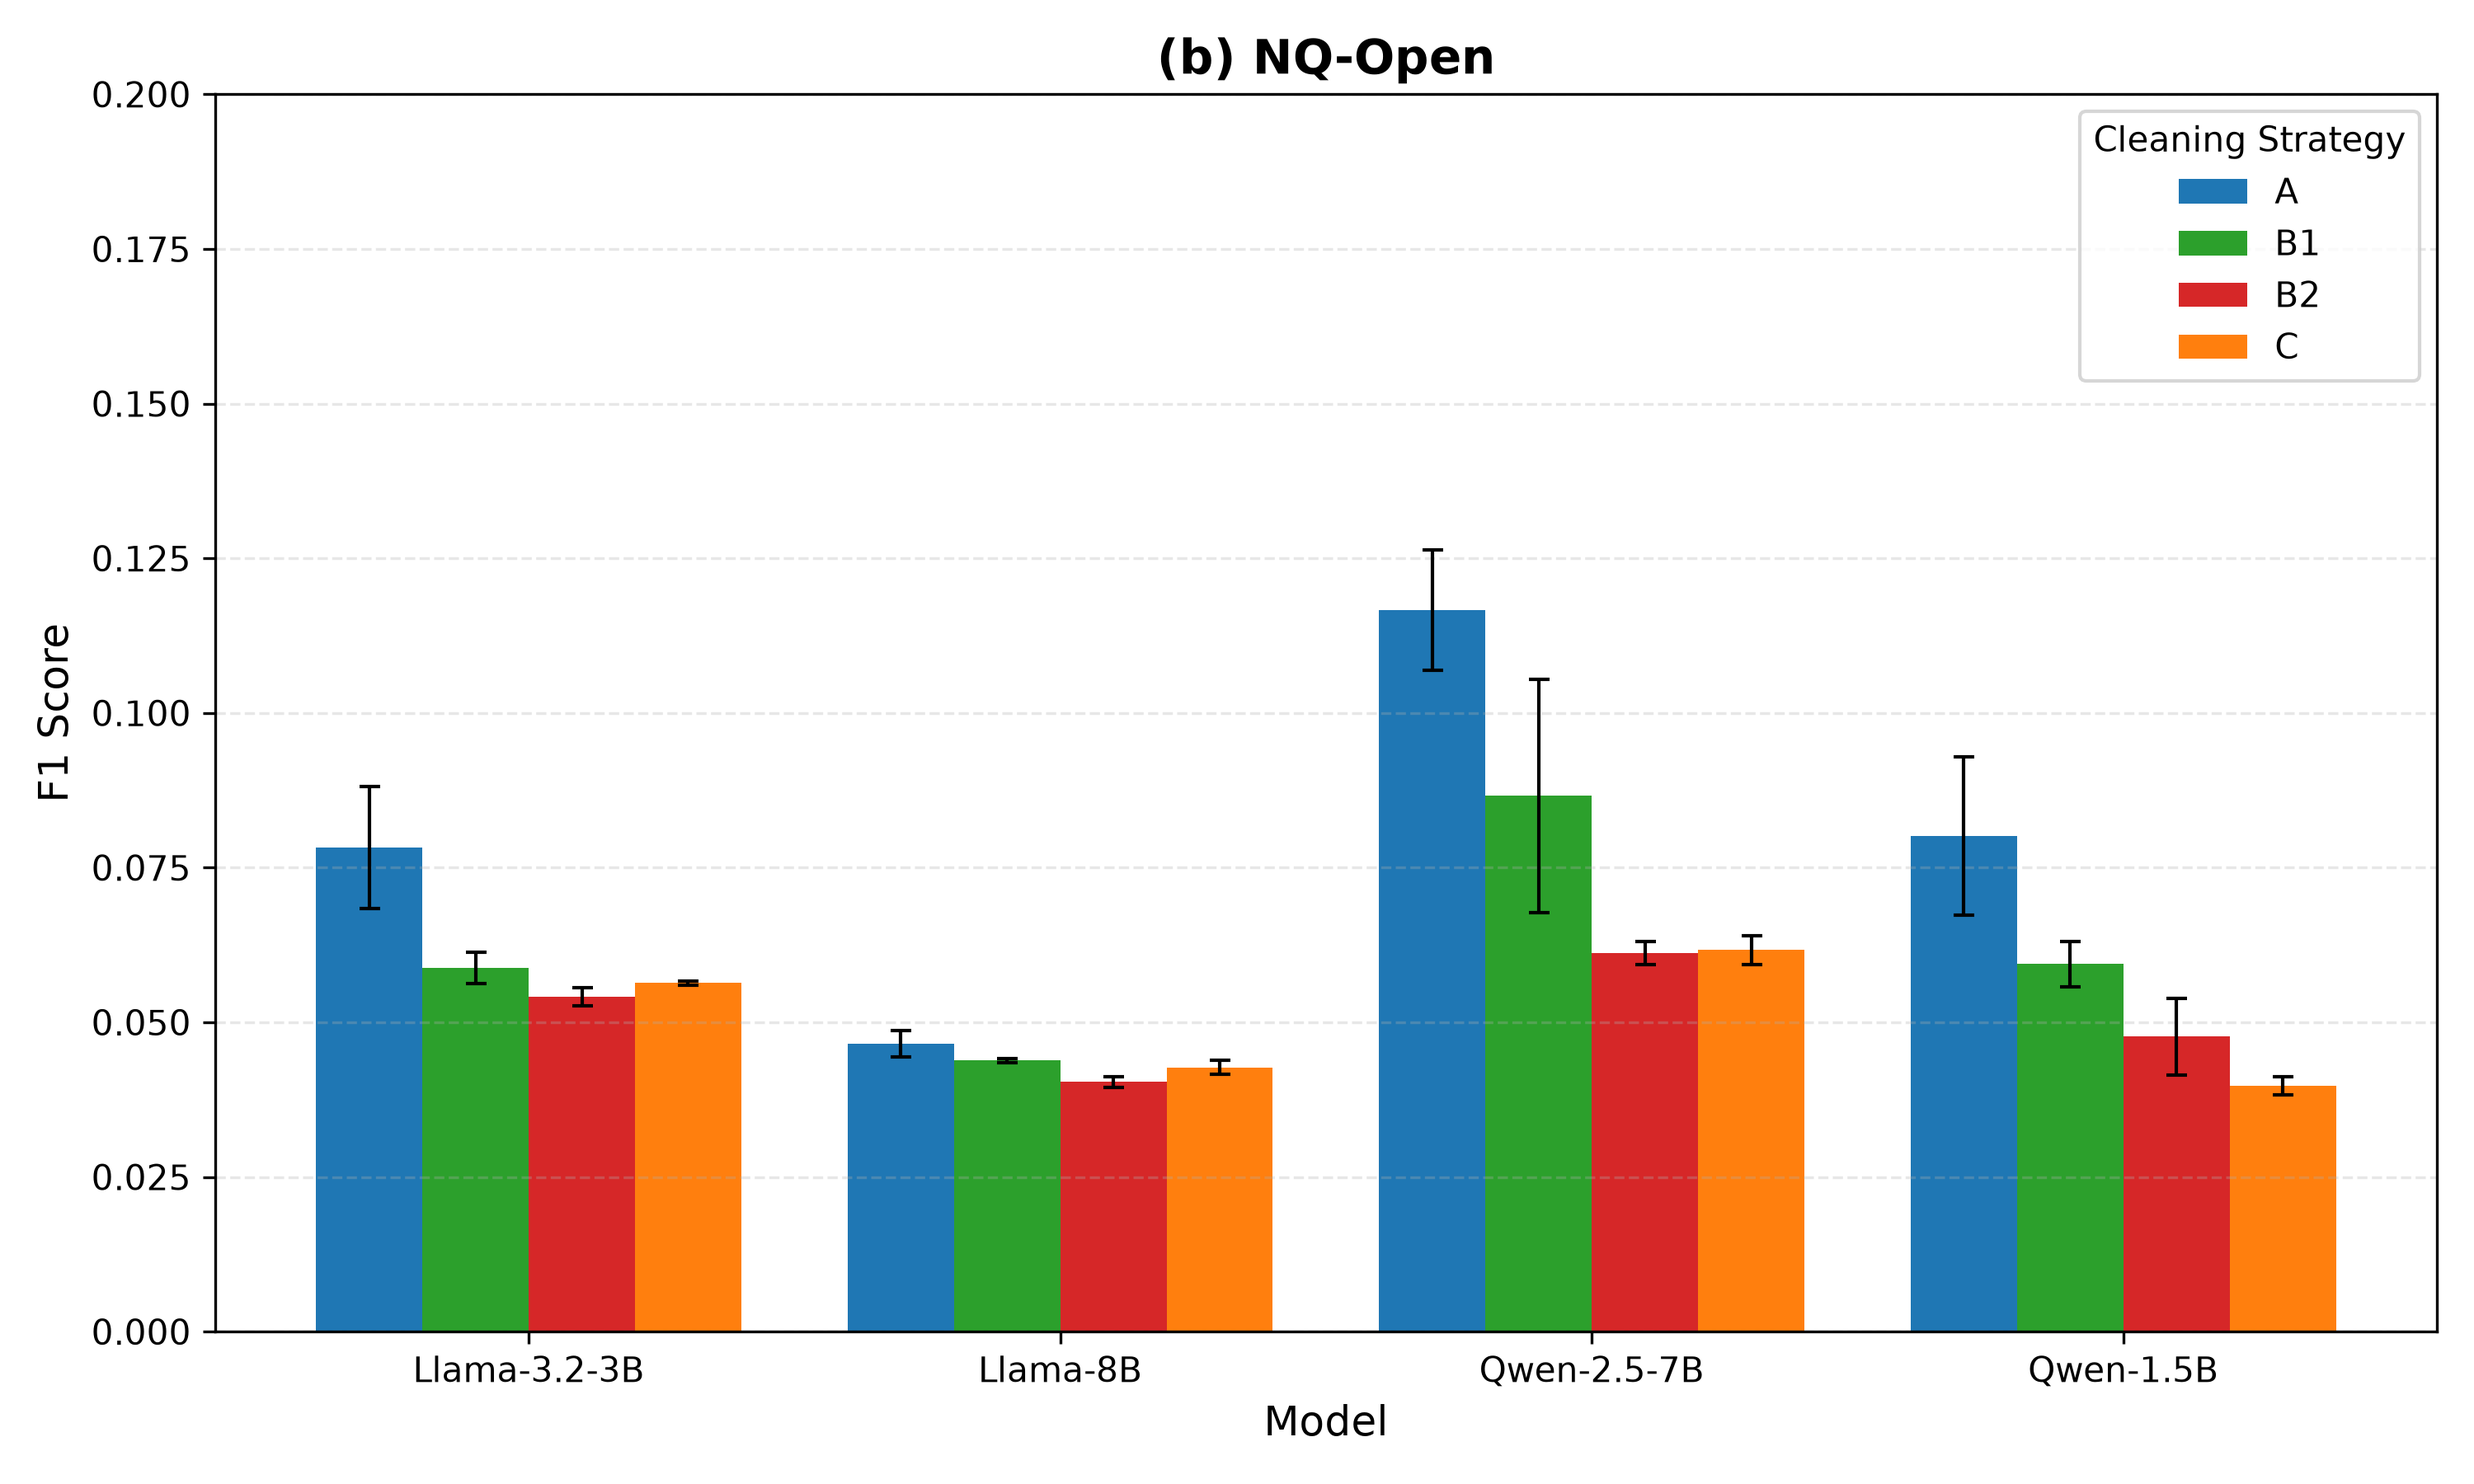
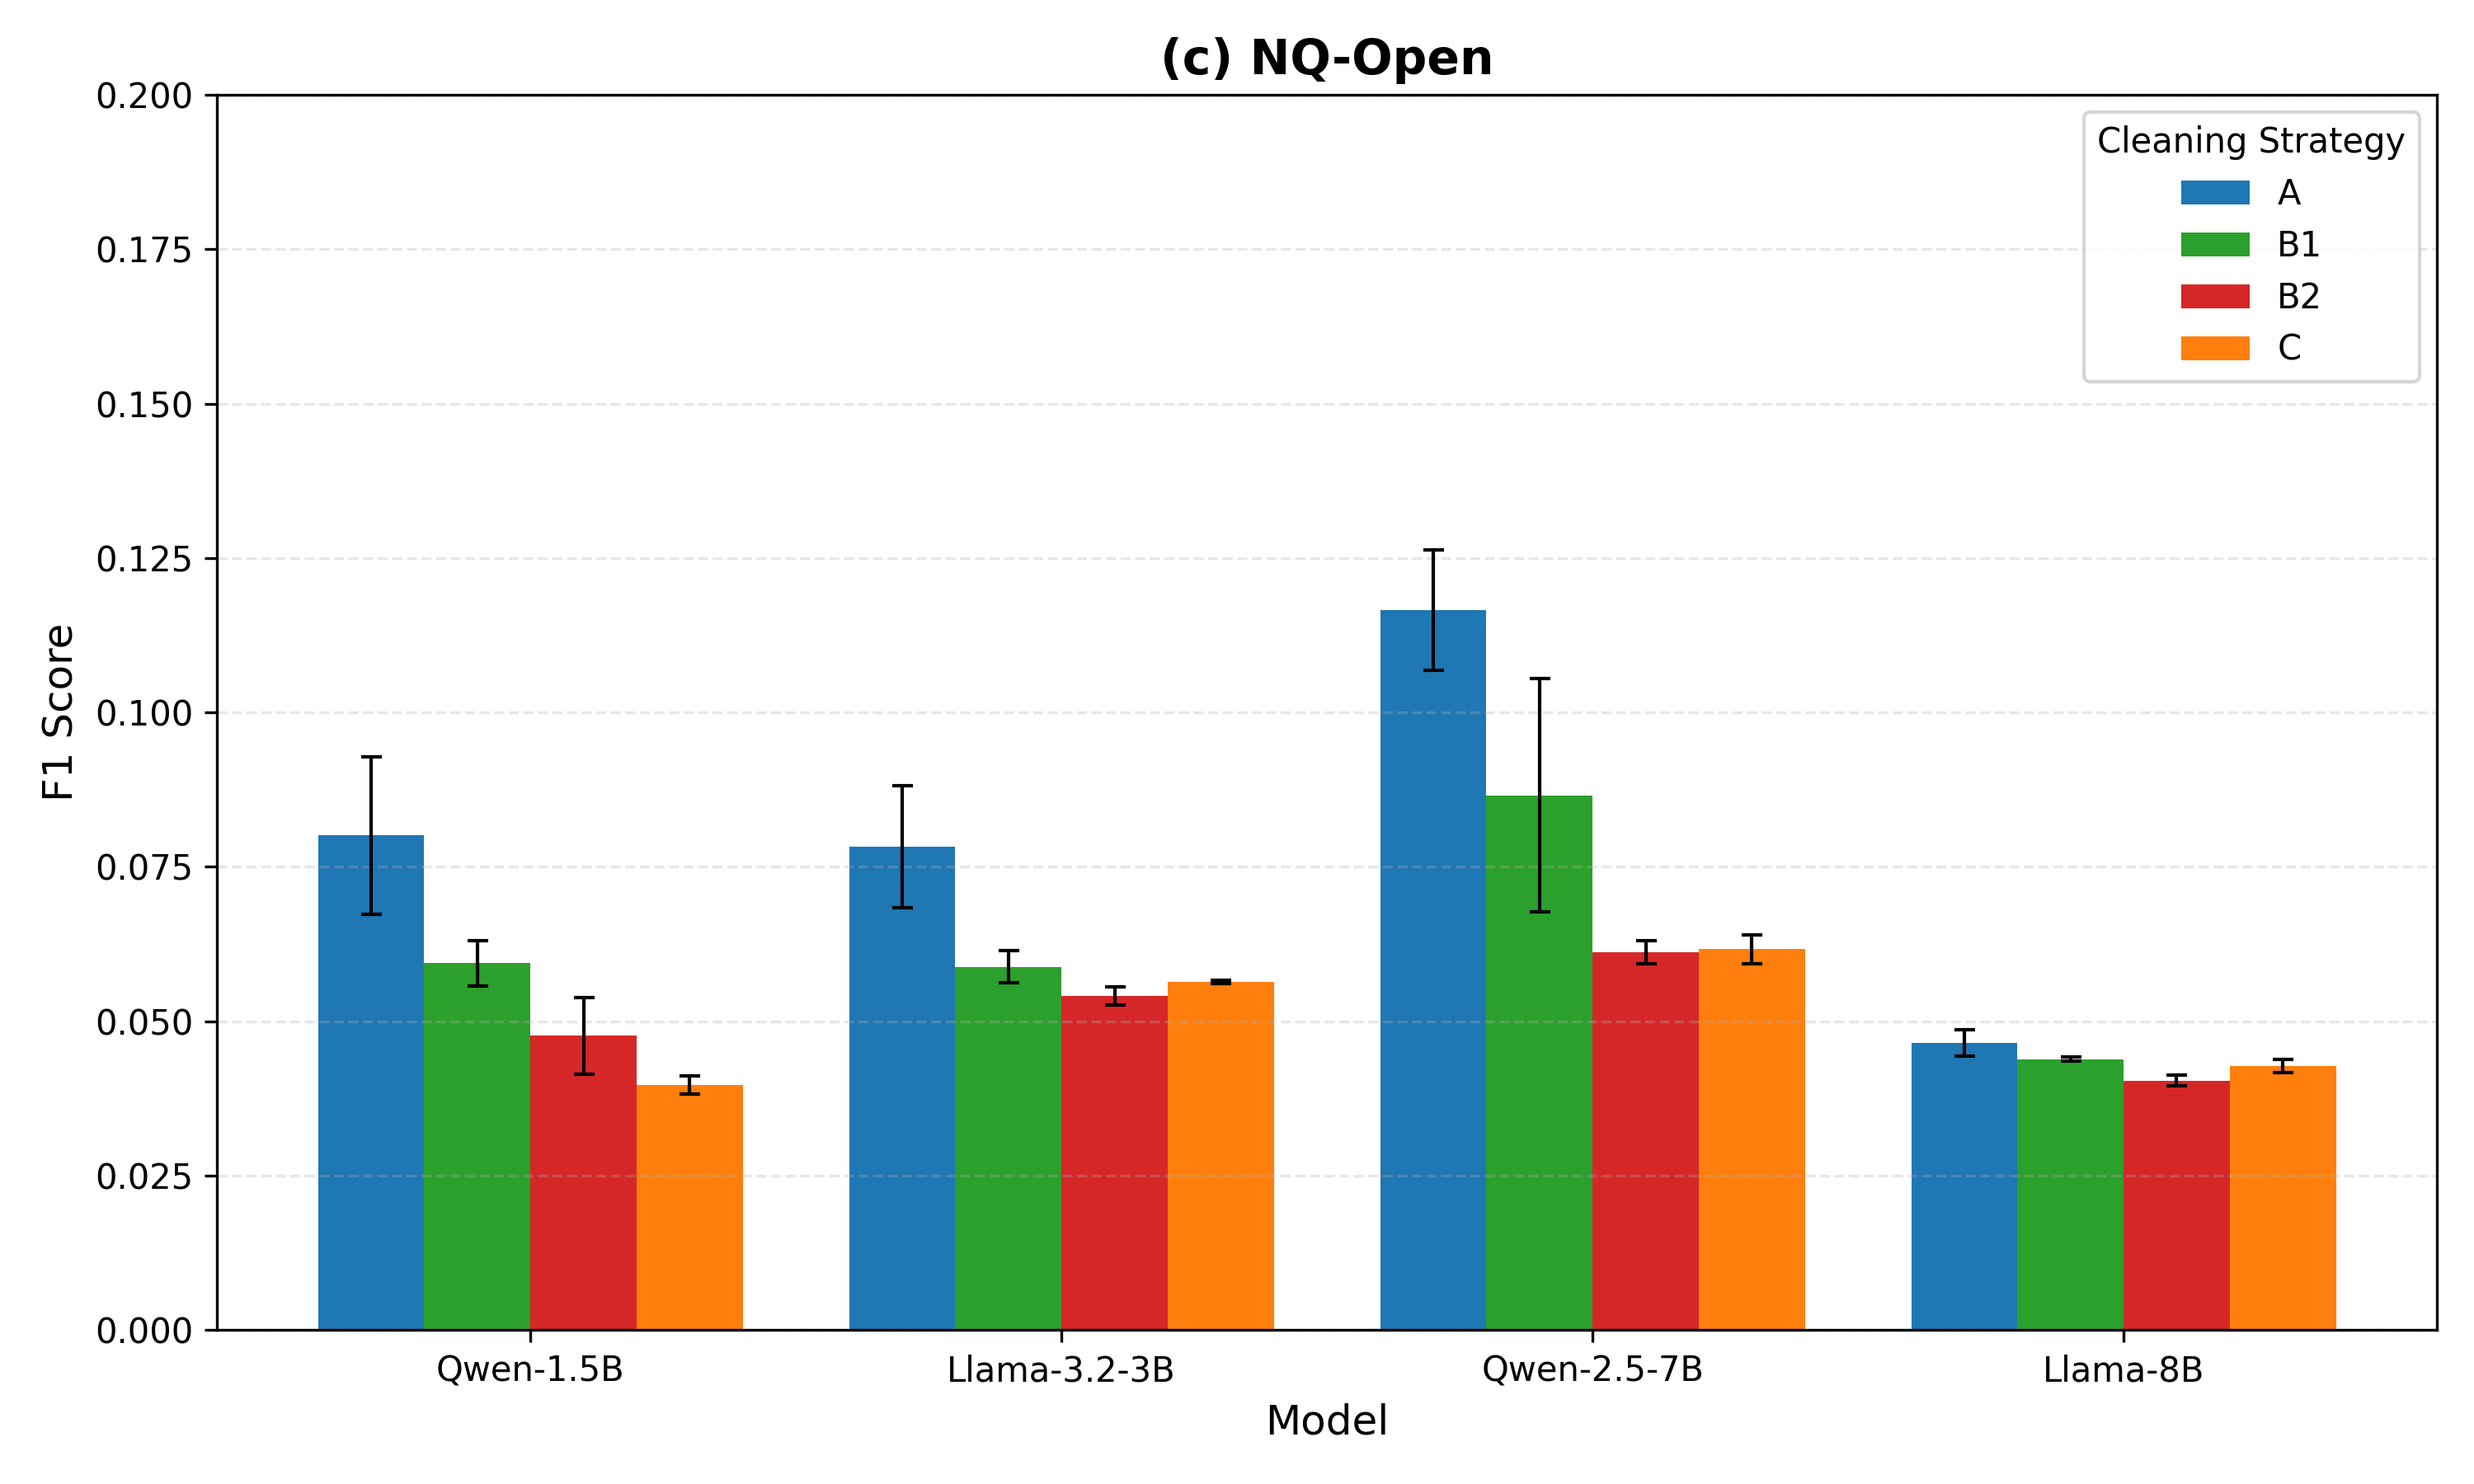
update

diff --git a/src/figures/figure1c_nq.py b/src/figures/figure1c_nq.py
@@ -1,6 +1,7 @@
 """
-Generate Figure 1b: NQ-Open F1 comparison across four cleaning strategies.
+Generate Figure 1c: NQ-Open F1 comparison across four cleaning strategies.
 Reads data from table2_nq_stats.csv.
+Models are ordered from smallest to largest.
 """
 
 import matplotlib.pyplot as plt
@@ -16,18 +17,21 @@ from config.paths import FIGURES_DIR, TABLES_DIR
 # ------------------------------------------------------------------
 # 1. Load data
 # ------------------------------------------------------------------
-df = pd.read_csv(TABLES_DIR / "table2_nq_stats.csv")
+df = pd.read_csv(TABLES_DIR / "table2b_full_statistics_NQ.csv")
 
-# Model order: consistent with Figure 1a
-model_order = ["llama-3.2-3b", "llama-8b", "qwen-2.5-7b", "qwen-1.5b"]
+# Model order: smallest to largest
+model_order = ["qwen-1.5b", "llama-3.2-3b", "qwen-2.5-7b", "llama-8b"]
 df["model"] = pd.Categorical(df["model"], categories=model_order, ordered=True)
 df = df.sort_values(["model", "group"]).reset_index(drop=True)
+
+# Display names for x-axis
+display_names = ["Qwen-1.5B", "Llama-3.2-3B", "Qwen-2.5-7B", "Llama-8B"]
 
 # Strategy order and colors
 groups = ["A", "B1", "B2", "C"]
 colors = {"A": "#1f77b4", "B1": "#2ca02c", "B2": "#d62728", "C": "#ff7f0e"}
 
-x = np.arange(len(model_order))
+x = np.arange(len(display_names))
 width = 0.2
 
 # ------------------------------------------------------------------
@@ -63,14 +67,14 @@ for i, group in enumerate(groups):
 # ------------------------------------------------------------------
 ax.set_ylabel("F1 Score", fontsize=12)
 ax.set_xlabel("Model", fontsize=12)
-ax.set_title("(b) NQ-Open", fontsize=14, fontweight="bold")
+ax.set_title("(c) NQ-Open", fontsize=14, fontweight="bold")
 ax.set_xticks(x)
-ax.set_xticklabels(model_order, fontsize=10, rotation=0)
+ax.set_xticklabels(display_names, fontsize=10, rotation=0)
 ax.set_ylim(0, 0.2)  # NQ-specific F1 range
 ax.legend(title="Cleaning Strategy", fontsize=10, loc="upper right")
 ax.grid(axis="y", linestyle="--", alpha=0.3)
 
 plt.tight_layout()
-plt.savefig(FIGURES_DIR / "figure1b_nq.png", dpi=300)
-print(f"[INFO] Figure 1b saved to {FIGURES_DIR / 'figure1b_nq.png'}")
+plt.savefig(FIGURES_DIR / "figure1c_nq.png", dpi=300)
+print(f"[INFO] Figure 1c saved to {FIGURES_DIR / 'figure1c_nq.png'}")
 plt.show()
